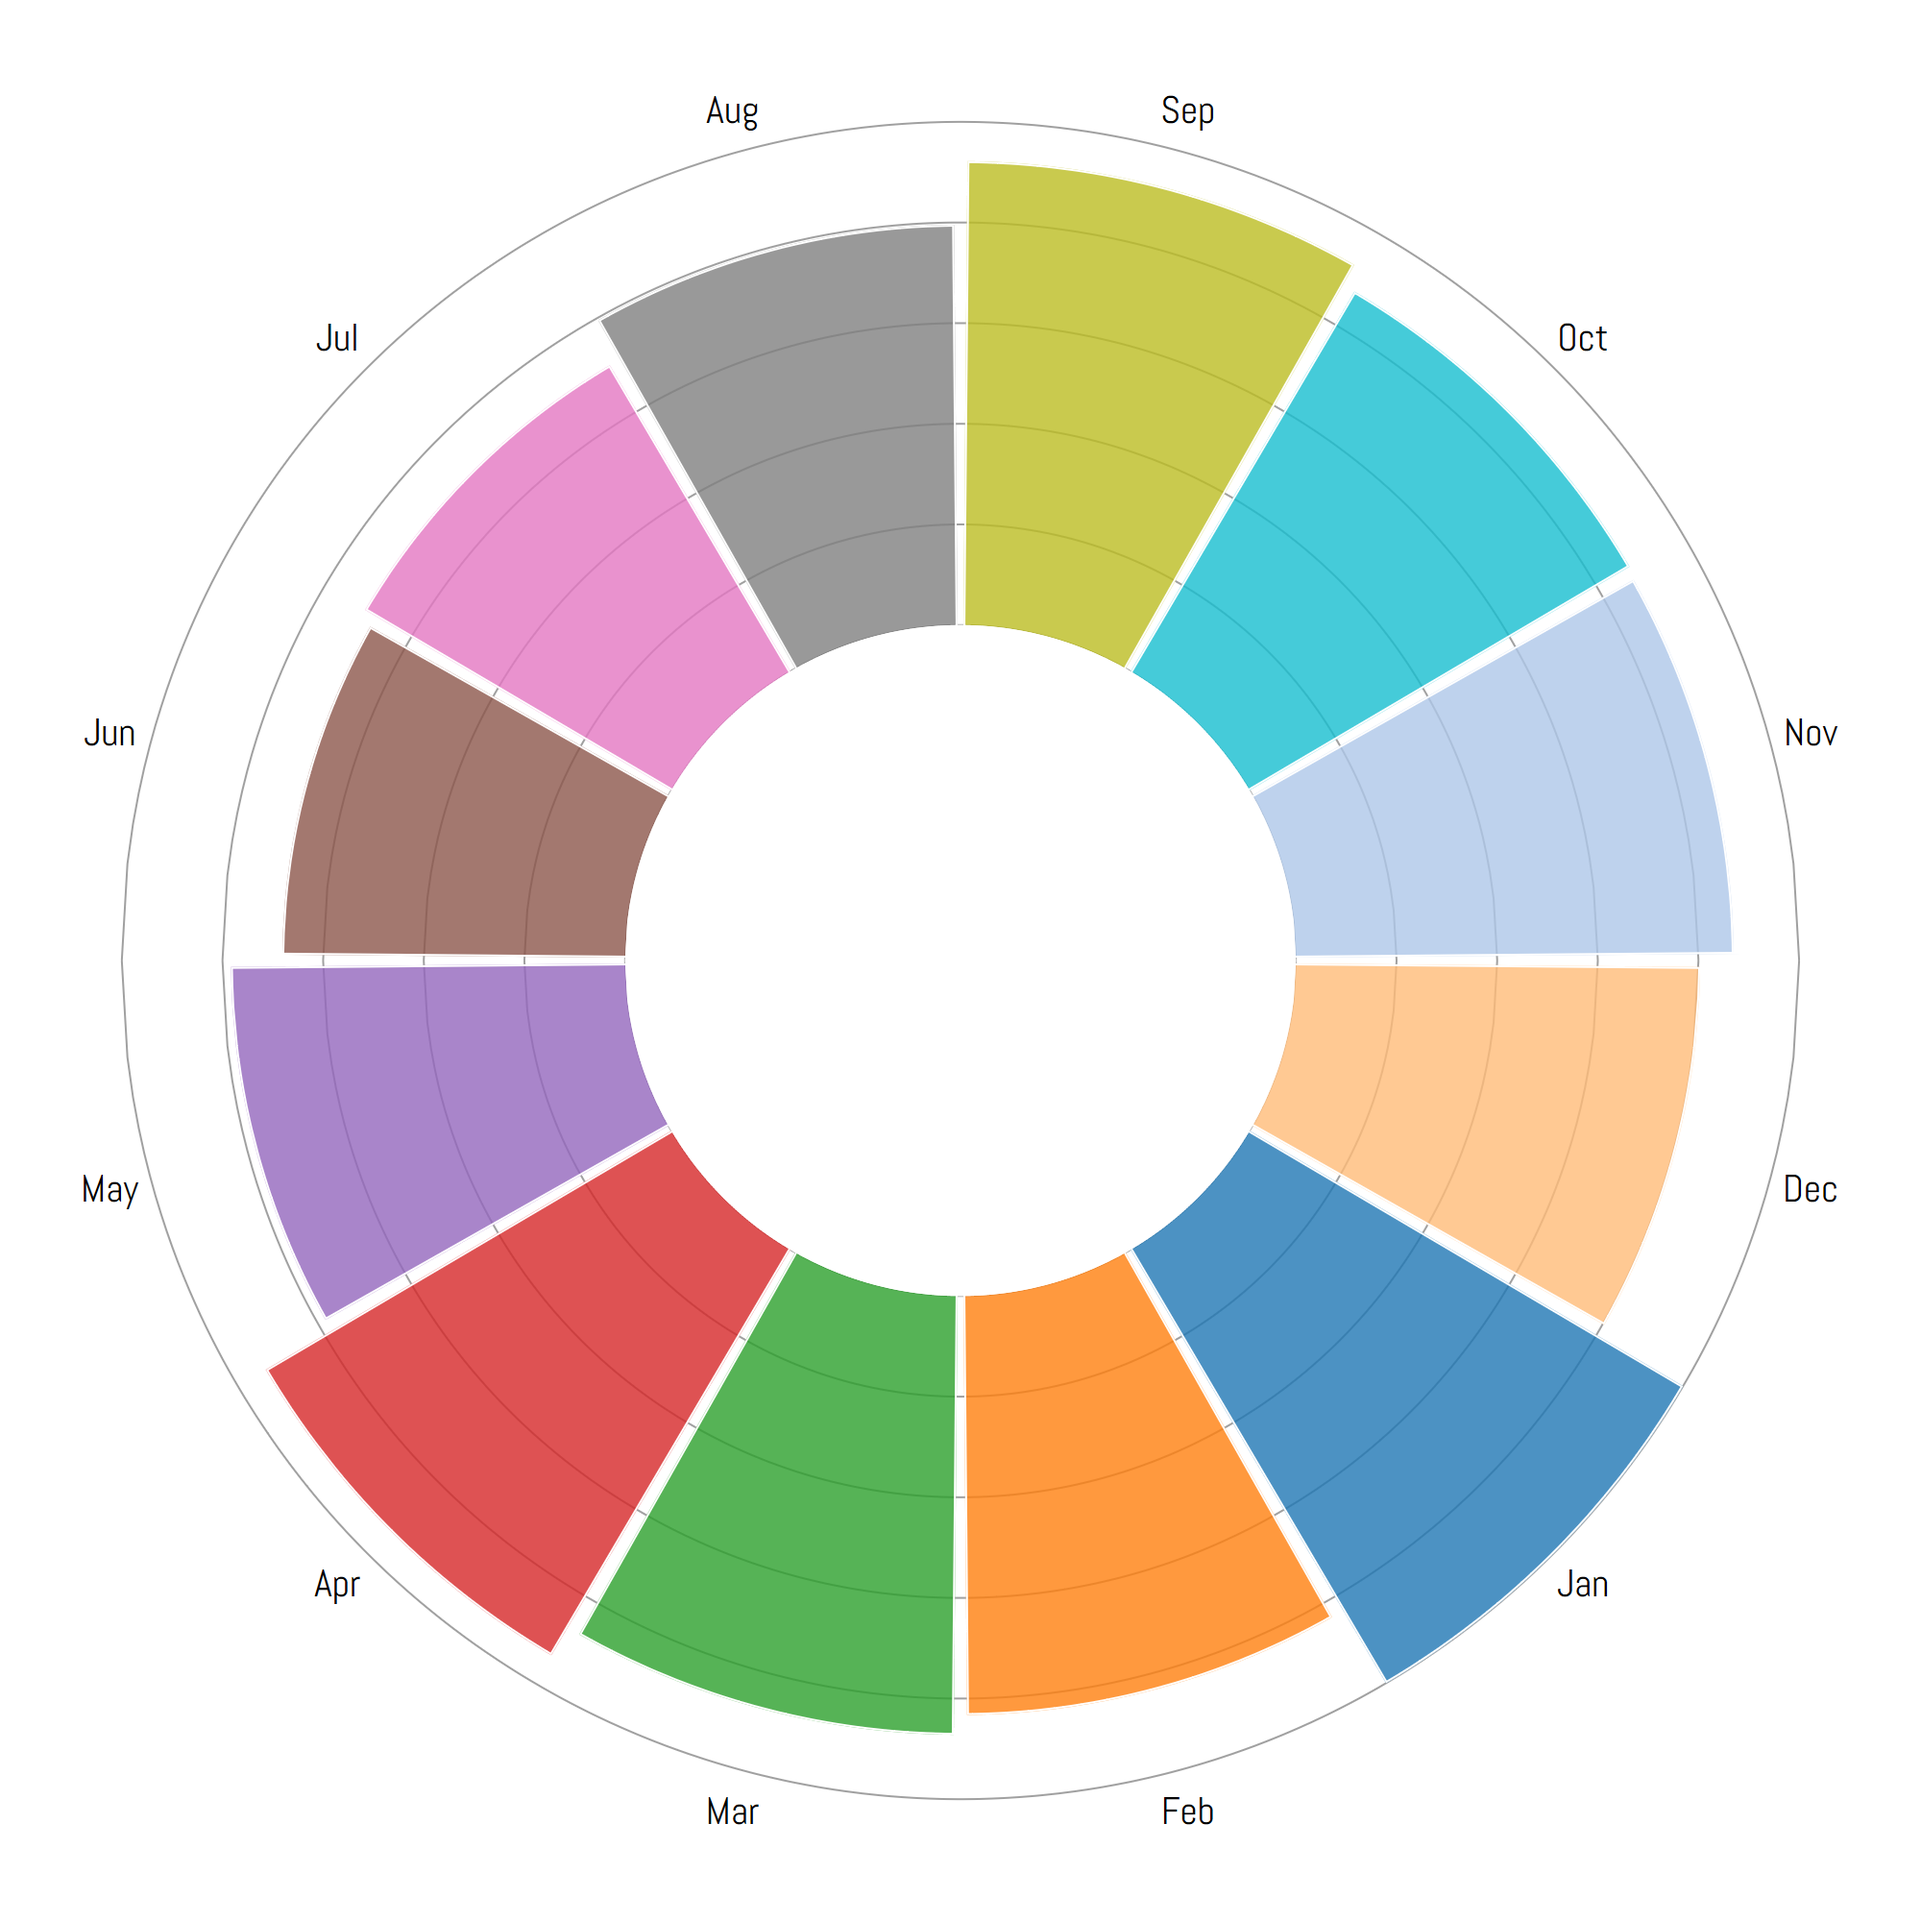
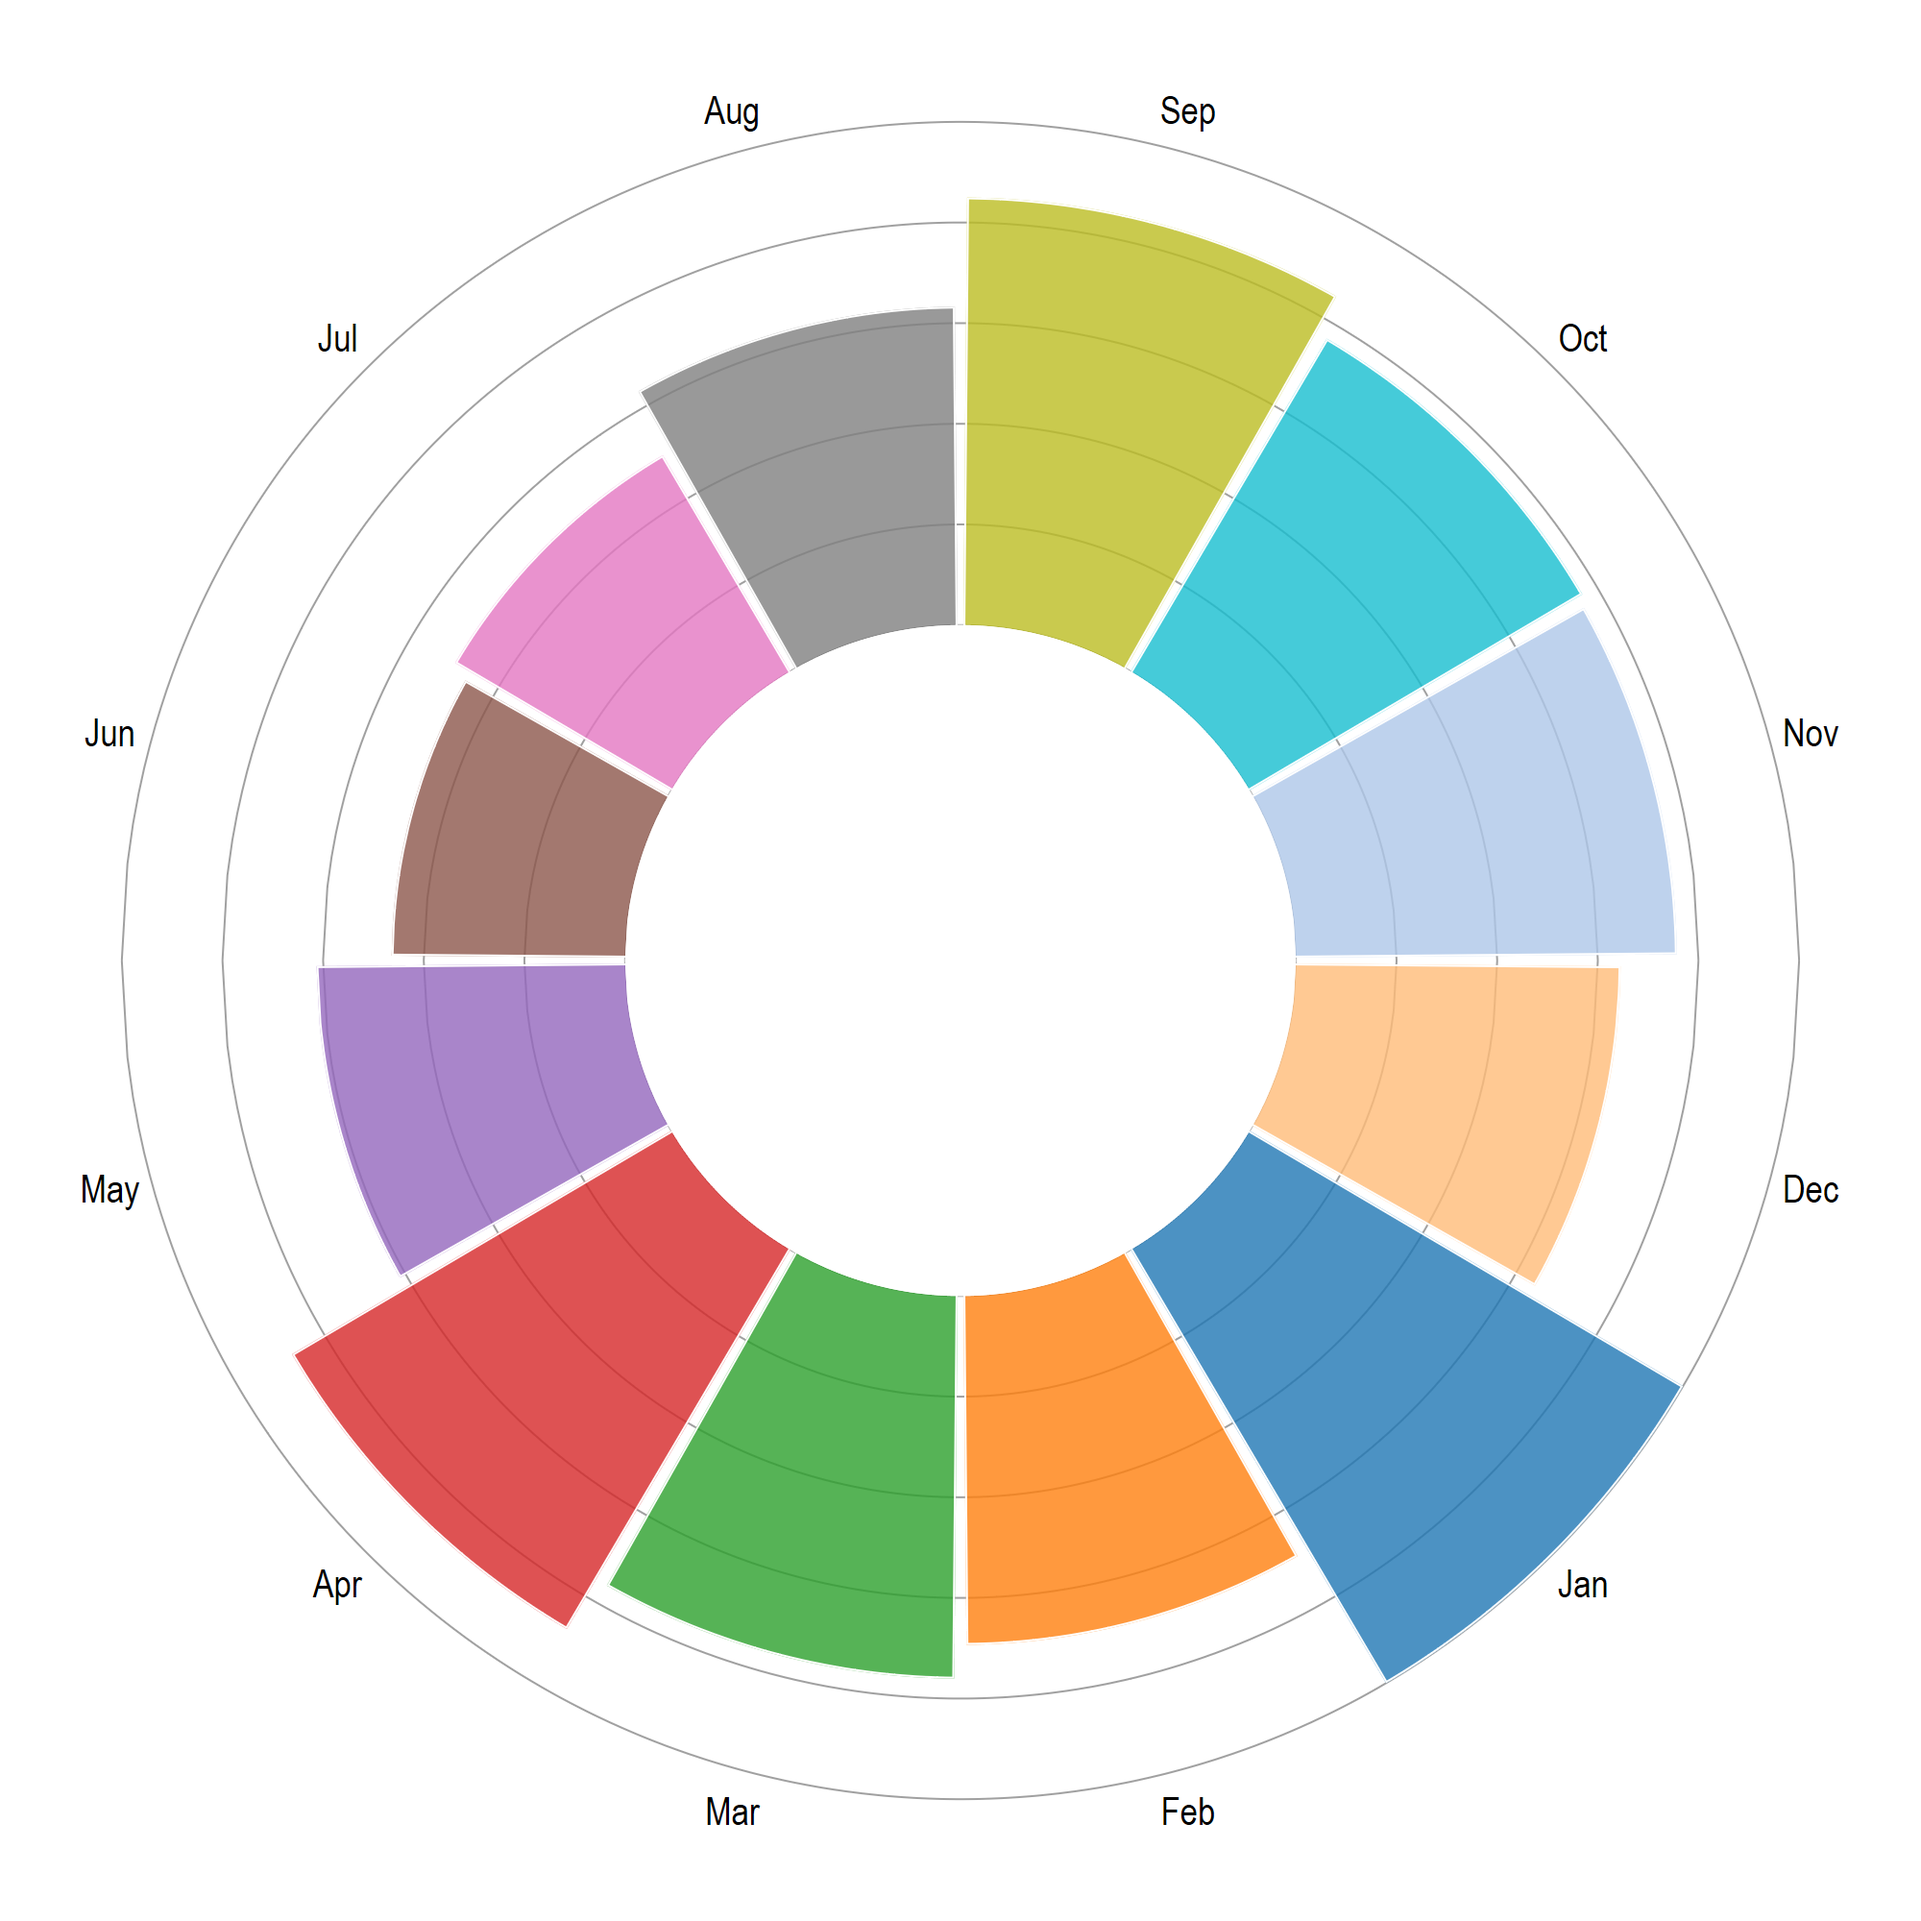
v1.0 fixes

diff --git a/README.md b/README.md
@@ -52,8 +52,8 @@ The syntax for **v1.0** is as follows:
 
 ```
 circlebar numvar [if] [in], by(var1) [ stack(var2) ]
-                [ radmin(num) radmax(num) circles(num) gap(num) alpha(num) palette(str)
-                  nolabels rotatelabel showvalues nocircles nolegend
+                [ radmin(num) radmax(num) circles(num) gap(num) alpha(num) palette(str) range(num) 
+                  nolabels rotatelabel showvalues nocircles nolegend circtop
                   lcolor(str) lwidth(str) circcolor(str) circwidth(str) labgap(num) labsize(str)
                   title(str) subtitle(str) note(str) name(str)                              
                 ]
@@ -108,6 +108,18 @@ circlebar deathspm, by(month) gap(0.5) alpha(80) circles(6)
 <img src="/figures/circlebar4.png" height="600">
 
 ```
+circlebar deathspm, by(month) gap(0.5) circles(6) circtop
+```
+
+<img src="/figures/circlebar4_1.png" height="600">
+
+```
+circlebar deathspm, by(month) gap(0.5) circles(10) ra(18000)
+```
+
+<img src="/figures/circlebar4_2.png" height="600">
+
+```
 circlebar deathspm, by(month) gap(0.5) palette(CET C6)
 ```
 
@@ -120,11 +132,19 @@ circlebar deathspm, by(month) gap(2) palette(CET C6) rotatelab
 <img src="/figures/circlebar6.png" height="600">
 
 ```
-circlebar deathspm, by(month) stack(continent) gap(0.5) radmin(5) palette(CET C6, n(6)) rotatelab
+circlebar deathspm, by(month) stack(continent) gap(1.5) radmin(5) palette(CET C6, n(6)) rotatelab lc(black) circc(gs13) ra(20000) ///
+text(0 0 "Global COVID-19" "{bf:deaths per million}" "in 2021" "(by continent)",  size(2.5)) note("Source: Our World in Data", size(2))
 ```
 
 <img src="/figures/circlebar7.png" height="600">
 
+```
+circlebar deathspm, by(month) stack(continent) palette(tab Color Blind, n(6)) gap(0.5) radmin(4) radmax(10) ra(17000) ///
+text(0 0 "Global COVID-19" "{bf:deaths per million}" "in 2021" "(by continent)",  size(2.5)) ///
+note("Source: Our World in Data", size(2)) circ(8) circc(gs13) labgap(8) rotatelab labs(2.4) 
+```
+
+<img src="/figures/circlebar8.png" height="600">
 
 
 ## Feedback
